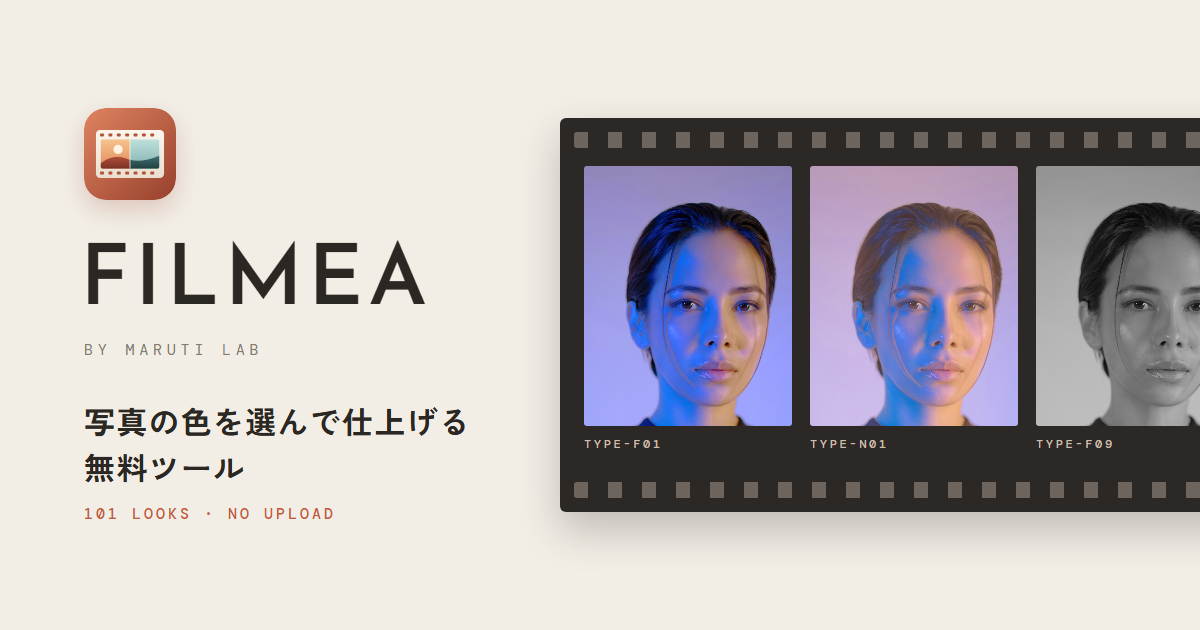
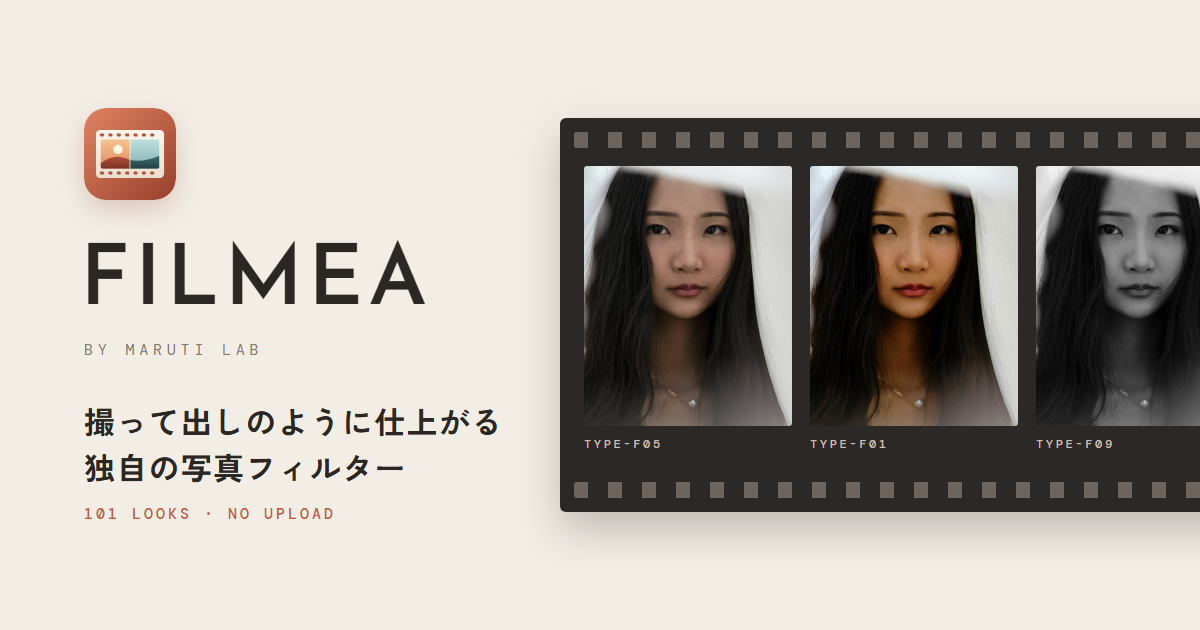
Give FILMEA natural-light person and blue-sky landscape samples, and say what sets its looks apart

Changed region(s): [[0.4625, 0.2413, 1.0, 0.6937], [0.0617, 0.6333, 0.4317, 0.6937], [0.0617, 0.7238, 0.3392, 0.7841]]

diff --git a/public/filmea/index.html b/public/filmea/index.html
@@ -3,13 +3,13 @@
 <head>
 <meta charset="UTF-8">
 <meta name="viewport" content="width=device-width, initial-scale=1.0, viewport-fit=cover">
-<title>FILMEA（フィルメア）— 写真の色を選んで仕上げる無料ツール</title>
-<meta name="description" content="手持ちの写真に101種類の色をあてて見比べ、気に入った色で保存できる無料のツール。写真はアップロードされず、端末の中だけで処理します。">
+<title>FILMEA（フィルメア）— 撮って出しのように仕上がる写真フィルター</title>
+<meta name="description" content="かけても白っぽく褪せず、撮って出しのような自然な仕上がりになる、FILMEA 独自の写真フィルターが101種類。無料で使えて、写真はアップロードされず端末の中だけで処理します。">
 <link rel="canonical" href="https://marutilab.com/filmea/">
 <meta name="theme-color" content="#f2eee6">
 <meta property="og:type" content="website">
-<meta property="og:title" content="FILMEA（フィルメア）— 写真の色を選んで仕上げる無料ツール">
-<meta property="og:description" content="手持ちの写真に101種類の色をあてて見比べ、気に入った色で保存できる無料のツール。写真はアップロードされず、端末の中だけで処理します。">
+<meta property="og:title" content="FILMEA（フィルメア）— 撮って出しのように仕上がる写真フィルター">
+<meta property="og:description" content="かけても白っぽく褪せず、撮って出しのような自然な仕上がりになる、FILMEA 独自の写真フィルターが101種類。無料で使えて、写真はアップロードされず端末の中だけで処理します。">
 <meta property="og:url" content="https://marutilab.com/filmea/">
 <meta property="og:image" content="https://marutilab.com/filmea/og.png">
 <meta property="og:image:width" content="1200">

diff --git a/public/filmea/sw.js b/public/filmea/sw.js
@@ -4,10 +4,10 @@
 // deploy shows up on the next visit; the saved copy is only used offline. The colour tables, sample
 // photos and icons do not change under the same name, so they are served from the cache once fetched.
 // Photos the visitor opens never pass through here: they are read from the device, not fetched.
-const VERSION = 'filmea-v1';
+const VERSION = 'filmea-v2';
 const SHELL = [
   './', 'index.html', 'app.js', 'engine.js', 'loaders.js', 'print.js', 'style.css', 'presets.json',
-  'icon.svg', 'icon-192.png', 'manifest.webmanifest', 'photos/portrait.jpg',
+  'icon.svg', 'icon-192.png', 'manifest.webmanifest', 'photos/person.jpg',
 ];
 
 self.addEventListener('install', (e) => {

diff --git a/public/filmea/app.js b/public/filmea/app.js
@@ -5,8 +5,8 @@ import { mountLayout, frameLayout, drawFrameUnder, drawFrameOver, mountCode, fil
 const $ = (id) => document.getElementById(id);
 
 const SAMPLES = [
-  { label: '人物', url: 'photos/portrait.jpg' },
-  { label: '風景', url: 'photos/landscape.jpg' },
+  { label: '人物', url: 'photos/person.jpg' },
+  { label: '風景', url: 'photos/fuji.jpg' },
   { label: '街', url: 'photos/street.jpg' },
   { label: '赤', url: 'photos/red.jpg' },
   { label: '陰影', url: 'photos/shade.jpg' },
